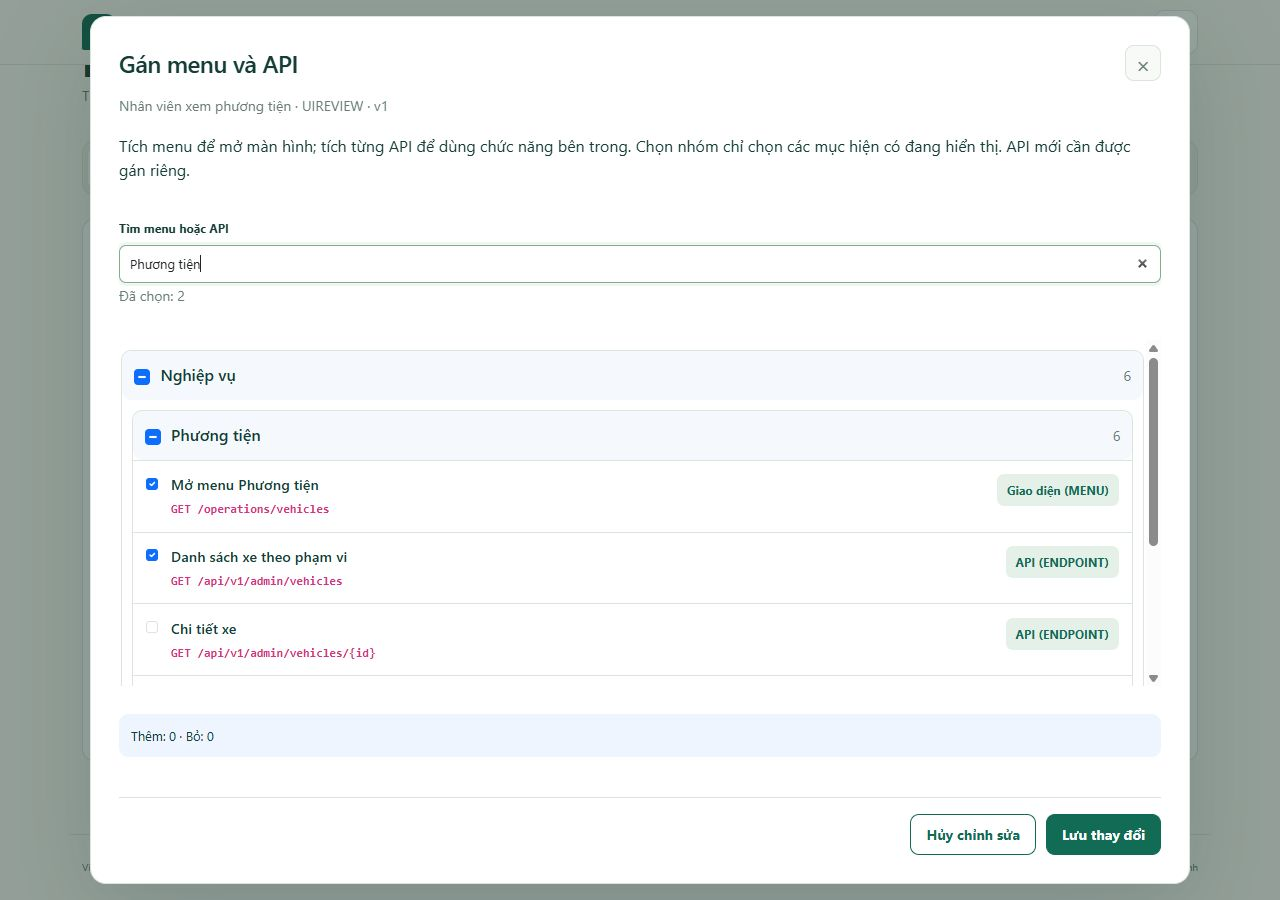
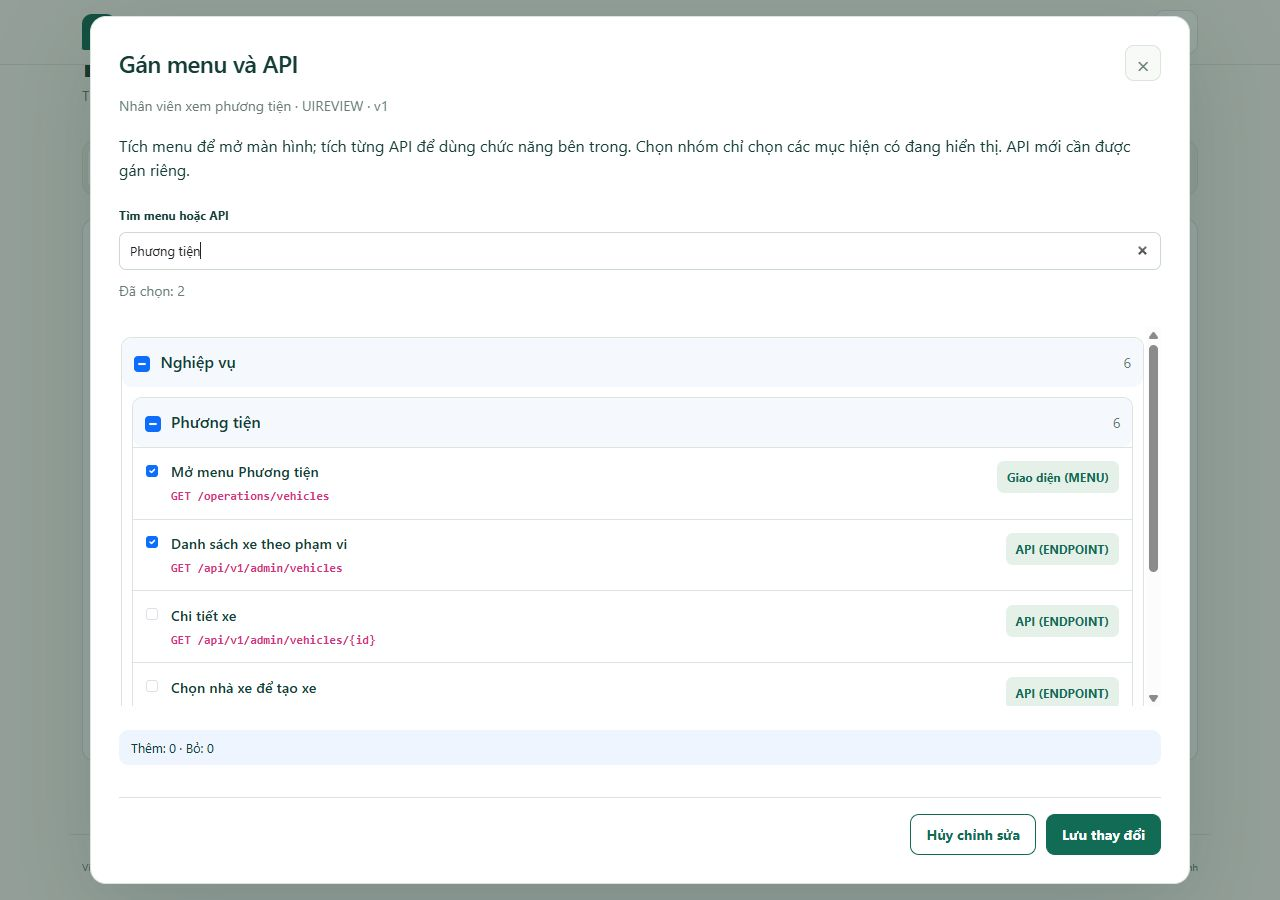
Ghi đủ tài nguyên khi xóa role và khôi phục quản trị (ACCESS24)
Đồng bộ audit target cho API permission tương thích, xóa role và snapshot phục hồi ADMIN; không để thay mapping HTTP mà lịch sử chỉ ghi projection. Cho bỏ target cũ đã thành public/tự phục vụ trên cây để không mắc kẹt khi lưu role sau nâng cấp.

Kiểm tra: bổ sung ca PostgreSQL gán tương thích và xóa role giữ delta target; kiểm guard/recovery/history liên quan và full Maven verify đạt 210/210 (46 ca business), Node 66/66; formatter/rules/docs/diff check đạt. Head trung gian d119663 đạt đủ ba CI; cần CI đúng head này trước merge. V001–V021 giữ nguyên, chưa thay production.

diff --git a/src/main/webapp/assets/js/resource-grants.js b/src/main/webapp/assets/js/resource-grants.js
@@ -125,7 +125,9 @@
             parent.append(details);
         };
         for (const feature of features.filter((item) => !item.parent)) branch(feature, host);
-        const knownTargets = new Set(inventory.map((item) => item.target));
+        const knownTargets = new Set(
+            inventory.filter((item) => !item.publicRoute && item.declaredPermissions.length).map((item) => item.target),
+        );
         for (const target of state.values().filter((item) => !knownTargets.has(item))) {
             const row = element('label', null, 'resource-grant-leaf');
             const input = element('input');

diff --git a/src/main/webapp/assets/js/roles.js b/src/main/webapp/assets/js/roles.js
@@ -197,7 +197,7 @@
     });
     node('grants-form').addEventListener('submit', (event) => {
         event.preventDefault();
-        if (busy || !state || grantRole.builtIn) return;
+        if (busy || !state || grantRole.builtIn || !can('PUT', '/roles/{role}/resources')) return;
         const body = { targets: state.values(), version };
         void perform(async () => {
             await app.mutate(`${base}/roles/${encodeURIComponent(grantRole.code)}/resources`, body, 'put');

diff --git a/src/test/java/vn/vietroute/BusinessIntegrationTest.java b/src/test/java/vn/vietroute/BusinessIntegrationTest.java
@@ -1460,6 +1460,45 @@ class BusinessIntegrationTest {
     }
 
     @Test
+    void compatibilityAssignmentsAndRoleDeletionRetainExactResourceHistory() throws Exception {
+        call(
+            201,
+            "POST",
+            "/api/v1/admin/access/registry/roles/RESOURCEHISTORY",
+            "{\"nameVi\":\"Lịch sử\",\"nameEn\":\"History\",\"active\":true,\"version\":0}",
+            admin
+        );
+        grantResources("RESOURCEHISTORY", 0, Set.of("GET /api/v1/admin/vehicles"), admin, 200);
+        call(
+            200,
+            "PUT",
+            "/api/v1/admin/access/roles/RESOURCEHISTORY/permissions",
+            "{\"permissions\":[\"VEHICLE_READ\"],\"version\":1}",
+            admin
+        );
+        assertEquals(
+            "2",
+            sql(
+                "SELECT count(*) FROM auth_access_changes WHERE event_type='ROLE_RESOURCES' AND target_key='RESOURCEHISTORY'"
+            )
+        );
+        assertEquals(
+            "true",
+            sql(
+                "SELECT (after_state->'resources' @> '[\"GET /api/v1/admin/vehicles/{id}\"]'::jsonb)::text FROM auth_access_changes WHERE event_type='ROLE_RESOURCES' AND target_key='RESOURCEHISTORY' ORDER BY id DESC LIMIT 1"
+            )
+        );
+        call(200, "DELETE", "/api/v1/admin/access/registry/roles/RESOURCEHISTORY?version=0", null, admin);
+        assertEquals(
+            "true",
+            sql(
+                "SELECT (before_state->'resources' @> '[\"GET /api/v1/admin/vehicles/{id}\"]'::jsonb AND after_state->'resources'='[]'::jsonb)::text FROM auth_access_changes WHERE event_type='ROLE_DELETED' AND target_key='RESOURCEHISTORY'"
+            )
+        );
+        assertEquals("0", sql("SELECT count(*) FROM auth_role_resource_sets WHERE role_code='RESOURCEHISTORY'"));
+    }
+
+    @Test
     void nativeDelegationAndHistoryFailureCannotEscalateOrPartiallyCommit() throws Exception {
         seed();
         long scope = Long.parseLong(sql("SELECT min(scope_id) FROM carriers"));

diff --git a/src/main/java/vn/vietroute/auth/service/AccessService.java b/src/main/java/vn/vietroute/auth/service/AccessService.java
@@ -114,11 +114,26 @@ public class AccessService {
                 ) throw new BusinessException(ErrorCode.ACCESS_DENIED);
             }
             access.requireExistingRole(connection, role);
+            var beforeTargets = resourceGrants.targets(connection, role);
             access.validateMappings(connection, Set.of(), request.getPermissions());
             resourceGrants.requireDelegable(connection, role, actor);
             access.replacePermissions(connection, role, request.getPermissions(), request.getVersion(), actor.id());
             resourceGrants.fromPermissions(connection, role, request.getPermissions(), actor);
             var after = access.role(connection, role);
+            var afterTargets = resourceGrants.targets(connection, role);
+            if (!beforeTargets.equals(afterTargets)) changes.resources(
+                connection,
+                Event.ROLE_RESOURCES,
+                Target.ROLE,
+                role.name(),
+                actor.id(),
+                beforeTargets,
+                afterTargets,
+                before.version(),
+                after.version(),
+                before.permissions().stream().map(Permission::name).collect(Collectors.toSet()),
+                after.permissions().stream().map(Permission::name).collect(Collectors.toSet())
+            );
             changes.mappings(
                 connection,
                 Event.ROLE_PERMISSIONS,

diff --git a/src/main/java/vn/vietroute/auth/repository/AdminRecoveryRepository.java b/src/main/java/vn/vietroute/auth/repository/AdminRecoveryRepository.java
@@ -191,6 +191,15 @@ public class AdminRecoveryRepository {
     public AccessChangeStateResponse state(Connection connection, long id) throws SQLException {
         Set<String> roles = new LinkedHashSet<>();
         Set<String> permissions = new LinkedHashSet<>();
+        Set<String> resources = new LinkedHashSet<>();
+        try (
+            var query = connection.prepareStatement(
+                "SELECT target FROM auth_role_resources WHERE role_code='ADMIN' ORDER BY target"
+            );
+            var rows = query.executeQuery()
+        ) {
+            while (rows.next()) resources.add(rows.getString(1));
+        }
         try (
             var query = connection.prepareStatement(
                 "SELECT role_code FROM auth_user_roles WHERE user_id=? ORDER BY role_code"
@@ -227,7 +236,7 @@ public class AdminRecoveryRepository {
         return new AccessChangeStateResponse(
             roles,
             permissions,
-            roles.size() + permissions.size(),
+            roles.size() + permissions.size() + resources.size(),
             false,
             active,
             deleted,
@@ -236,7 +245,8 @@ public class AdminRecoveryRepository {
             null,
             null,
             null,
-            version
+            version,
+            resources
         );
     }
 }

diff --git a/src/main/java/vn/vietroute/auth/dto/response/AccessChangeStateResponse.java b/src/main/java/vn/vietroute/auth/dto/response/AccessChangeStateResponse.java
@@ -110,12 +110,21 @@ public record AccessChangeStateResponse(
 
     /** Trước khi xóa role phải giữ cả mapping sắp bị dọn, không chỉ trạng thái registry. */
     public static AccessChangeStateResponse registry(AccessRegistryResponse value, Set<String> permissions) {
+        return registry(value, permissions, Set.of());
+    }
+
+    /** Xóa role còn phải ghi chính xác target bị dọn, không chỉ projection nội bộ. */
+    public static AccessChangeStateResponse registry(
+        AccessRegistryResponse value,
+        Set<String> permissions,
+        Set<String> resources
+    ) {
         return value == null
             ? empty()
             : new AccessChangeStateResponse(
                   Set.of(),
                   permissions,
-                  permissions.size(),
+                  permissions.size() + resources.size(),
                   false,
                   value.active(),
                   false,
@@ -124,7 +133,8 @@ public record AccessChangeStateResponse(
                   value.nameEn(),
                   null,
                   null,
-                  value.version()
+                  value.version(),
+                  resources
               );
     }
 

diff --git a/src/main/java/vn/vietroute/auth/service/AccessManagementService.java b/src/main/java/vn/vietroute/auth/service/AccessManagementService.java
@@ -147,6 +147,7 @@ public class AccessManagementService {
                 .stream()
                 .map(Permission::name)
                 .collect(Collectors.toSet());
+            var targets = resourceGrants.targets(connection, Role.valueOf(code));
             registry.deleteRole(connection, code, version, actor.id());
             changes.record(
                 connection,
@@ -154,7 +155,7 @@ public class AccessManagementService {
                 Target.ROLE,
                 code,
                 actor.id(),
-                AccessChangeStateResponse.registry(before, permissions),
+                AccessChangeStateResponse.registry(before, permissions, targets),
                 AccessChangeStateResponse.deleted(before)
             );
             return List.of();

diff --git a/src/main/java/vn/vietroute/auth/service/RoleResourceService.java b/src/main/java/vn/vietroute/auth/service/RoleResourceService.java
@@ -136,7 +136,8 @@ public class RoleResourceService {
         return selected;
     }
 
-    private Set<String> targets(Connection connection, Role role) throws SQLException {
+    /** Snapshot trong transaction quản trị của caller, kể cả target cũ cần thu hồi/lưu lịch sử. */
+    public Set<String> targets(Connection connection, Role role) throws SQLException {
         if (resources.initialized(connection, role)) return resources.targets(connection, role);
         Set<String> codes = roles
             .role(connection, role)

diff --git a/docs/05-ke-hoach/TIEN_DO_VA_KE_HOACH_NHOM.md b/docs/05-ke-hoach/TIEN_DO_VA_KE_HOACH_NHOM.md
@@ -2,11 +2,14 @@
 
 ## ACCESS24 — Đang làm: User, Role và cây menu/API
 
-hieuv526034 thực hiện trên `hieuv526034/access24-menu-api`, base main `8996677`, [Issue #127](https://github.com/hieuv526034/vietroute-web/issues/127), theo yêu cầu 25/10/2026. Đã thêm V022/mapping tài nguyên tường minh, guard HTTP + refresh service + scoped target, projection semantic nguyên tử, CRUD tên/xóa mềm user và ba màn User/Role/Menu–API. Giữ public/self-service/ADMIN/bootstrap/owner/scope/CSRF; không ghi/migrate Neon trong kiểm thử. Local đạt Maven verify 209/209 (45 ca PostgreSQL, gồm nâng cấp V021 → V022, target LIST/DETAIL độc lập, scope, ủy quyền, rollback history và soft delete), Node 66/66; npm ci/format/format:check/check:rules/check:docs/diff check đạt. Browser 1280/390px kiểm User sửa tên/gán role, Role CRUD và lưu đúng hai target fixture, tìm kiếm không mất lựa chọn, inventory en lọc 6 kết quả, scope/lịch sử vẫn hoạt động và lịch sử trả đúng target delta. [Cây desktop](../images/access24-role-tree.png), [390px](../images/access24-role-mobile.png); đây là dữ liệu local cô lập. Đã sửa fieldset/modal để vùng cây cuộn riêng và nút lưu nằm trong khung; chưa dùng preview làm bằng chứng Render. [PR #128](https://github.com/hieuv526034/vietroute-web/pull/128), source đầu `fd7d491`; review bổ sung bảo toàn ALL cũ khi lưu lại, ghi delta projection và lịch sử thu hồi từng membership khi xóa account. Sau sửa review: 45 ca business + 7 ca guard/history đạt, thêm lượt 13 ca account/history/guard liên quan đạt. Chưa merge hoặc triển khai. Quyết định/giới hạn ở schema/API/UI; backend compatibility còn giữ. Cần drain node V021 trước khi chỉnh role native và nghiệm thu quyền/data ba account sau triển khai. Bước tiếp theo: PR/CI đúng head, thay node và xác nhận runtime; không ghi/migrate Neon để kiểm build.
+hieuv526034 thực hiện trên `hieuv526034/access24-menu-api`, base main `8996677`, [Issue #127](https://github.com/hieuv526034/vietroute-web/issues/127), theo yêu cầu 25/10/2026. Đã thêm V022/mapping tài nguyên tường minh, guard HTTP + refresh service + scoped target, projection semantic nguyên tử, CRUD tên/xóa mềm user và ba màn User/Role/Menu–API. Giữ public/self-service/ADMIN/bootstrap/owner/scope/CSRF; không ghi/migrate Neon trong kiểm thử. Local đạt Maven verify 210/210 (46 ca PostgreSQL, gồm nâng cấp V021 → V022, target LIST/DETAIL độc lập, scope, ủy quyền, rollback history và soft delete), Node 66/66; npm ci/format/format:check/check:rules/check:docs/diff check đạt. Browser 1280/390px kiểm User sửa tên/gán role, Role CRUD và lưu đúng hai target fixture, tìm kiếm không mất lựa chọn, inventory en lọc 6 kết quả, scope/lịch sử vẫn hoạt động và lịch sử trả đúng target delta. [Cây desktop](../images/access24-role-tree.png), [390px](../images/access24-role-mobile.png); đây là dữ liệu local cô lập. Đã sửa fieldset/modal để vùng cây cuộn riêng và nút lưu nằm trong khung; chưa dùng preview làm bằng chứng Render. [PR #128](https://github.com/hieuv526034/vietroute-web/pull/128), source đầu `fd7d491`; review bổ sung bảo toàn ALL cũ khi lưu lại, ghi delta projection và lịch sử thu hồi từng membership khi xóa account. Sau sửa review: 45 ca business + 7 ca guard/history đạt, thêm lượt 13 ca account/history/guard liên quan đạt. Chưa merge hoặc triển khai. Quyết định/giới hạn ở schema/API/UI; backend compatibility còn giữ. Cần drain node V021 trước khi chỉnh role native và nghiệm thu quyền/data ba account sau triển khai. Bước tiếp theo: PR/CI đúng head, thay node và xác nhận runtime; không ghi/migrate Neon để kiểm build.
 
 
 
 CI source đầu `fd7d491`: Java/PostgreSQL, build image, Tomcat và loại test/secret khỏi WAR đạt; [container](https://github.com/hieuv526034/vietroute-web/actions/runs/40194949476) dừng ở verify-auth.sh:162 còn kiểm data-operations/ops-controls của UI cũ. Đã đổi assertion đúng màn Role/cây và thêm màn Menu/API, giữ HTTP/locale/security checks; fixture giả lập xóa ADMIN dọn marker V022 trước để tuân FK mới. Không chấp nhận CI đỏ làm nghiệm thu cuối. [Format](https://github.com/hieuv526034/vietroute-web/actions/runs/40194949480) và [docs](https://github.com/hieuv526034/vietroute-web/actions/runs/40194949650) của head đầu đạt.
+
+
+Head trung gian `d119663` đạt đủ ba CI: [container/PostgreSQL](https://github.com/hieuv526034/vietroute-web/actions/runs/40195595846), [format](https://github.com/hieuv526034/vietroute-web/actions/runs/40195595829), [docs](https://github.com/hieuv526034/vietroute-web/actions/runs/40195595794). Review cuối bổ sung delta tài nguyên cho API tương thích, snapshot xóa role/phục hồi ADMIN và khả năng bỏ grant đã thành public/self-service. Maven verify cuối đạt 210/210, gồm 46 ca business; không có test bỏ qua. Browser bản Java cuối kiểm mở cây, giữ hai target đã lưu, đóng trả focus đúng nút; đã trả viewport về mặc định. Tiếp tục CI trên head audit cuối; chưa dùng CI head trung gian để merge head mới.
 
 
 ## BUSINESS05 — Đã có trên main: dữ liệu chuẩn, breadcrumb và dashboard theo nghiệp vụ

diff --git a/docs/02-phat-trien/SCHEMA_VA_PHAN_QUYEN.md b/docs/02-phat-trien/SCHEMA_VA_PHAN_QUYEN.md
@@ -12,7 +12,7 @@ Quyết định ngày 25/10/2026 theo yêu cầu chủ dự án: quản trị ch
 
 Scope phải có **cùng scoped role** cấp cả projection quyền và target request hiện hành; không mượn API từ role ở nhà xe khác. Lời gọi bean trực tiếp không có HTTP target vẫn kiểm service semantic + scope; không tạo target giả từ header/body. Giới hạn ủy quyền kiểm cả tập target và projection actor đang có, kể cả khi gán/tái bật role. ADMIN bất biến; bootstrap recovery vẫn là đường có xác thực/mật khẩu, không thêm bypass runtime.
 
-V022 nối tiếp V001–V021: backfill một lần từ registry và mapping cũ, giữ hash/history/version/permission mapping, không tự grant permission mới cho role thường. DB mới chưa có inventory được chuyển ở startup sync khi inventory sẵn sàng. API PUT permission tương thích đóng băng tập route hiện tại sau khi lưu, không tự nhận route mới về sau. Nếu target ALL cũ được phối hợp bằng nhiều role, lưu lại target giữ phần projection đã có, không lấp quyền thiếu; muốn cấp trọn API cho một role phải bỏ/lưu rồi cấp lại tường minh. Lịch sử ROLE_RESOURCES giữ cả delta target và delta projection, xóa user còn ghi thu hồi từng membership. Chưa được gán tài nguyên khác với được gán tập rỗng. **Dừng/drain toàn bộ node cũ trước khi sửa role theo cây mới**: node V021 không biết rào target và không được cùng phục vụ sau khi áp dụng gán native. Đưa source qua PR/CI, lên kế hoạch thay node rồi nghiệm thu; không lấy build thành lý do migrate/seed Neon. Rollback code cũ sau khi có gán native không an toàn nếu chưa phục hồi mapping theo kế hoạch riêng.
+V022 nối tiếp V001–V021: backfill một lần từ registry và mapping cũ, giữ hash/history/version/permission mapping, không tự grant permission mới cho role thường. DB mới chưa có inventory được chuyển ở startup sync khi inventory sẵn sàng. API PUT permission tương thích đóng băng tập route hiện tại sau khi lưu, không tự nhận route mới về sau. Nếu target ALL cũ được phối hợp bằng nhiều role, lưu lại target giữ phần projection đã có, không lấp quyền thiếu; muốn cấp trọn API cho một role phải bỏ/lưu rồi cấp lại tường minh. Lịch sử ROLE_RESOURCES giữ cả delta target và delta projection; API permission tương thích cũng ghi delta target nếu làm đổi tập route. Snapshot xóa role/khôi phục ADMIN giữ tài nguyên thực tế, xóa user còn ghi thu hồi từng membership. Chưa được gán tài nguyên khác với được gán tập rỗng. **Dừng/drain toàn bộ node cũ trước khi sửa role theo cây mới**: node V021 không biết rào target và không được cùng phục vụ sau khi áp dụng gán native. Đưa source qua PR/CI, lên kế hoạch thay node rồi nghiệm thu; không lấy build thành lý do migrate/seed Neon. Rollback code cũ sau khi có gán native không an toàn nếu chưa phục hồi mapping theo kế hoạch riêng.
 
 Màn quản trị có ba menu: User (`/operations/accounts`), Role (`/operations/access`) và Menu/API (`/operations/access/resources`). Role giữ tab phạm vi nhà xe/lịch sử ADMIN; form CRUD và cây cấp tài nguyên nằm trong modal, có tìm kiếm, lựa chọn một phần, đếm thêm/bỏ và version. Inventory do source phát hiện, không cho nhập URL thực thi hoặc sửa private thành public. Menu path/parent/nhãn/thứ tự và điều kiện bảo mật vẫn khai báo ở source để review/deploy. API registry/policy/permission cũ giữ cho tương thích; không là ma trận cấu hình chính của UI mới.
 
